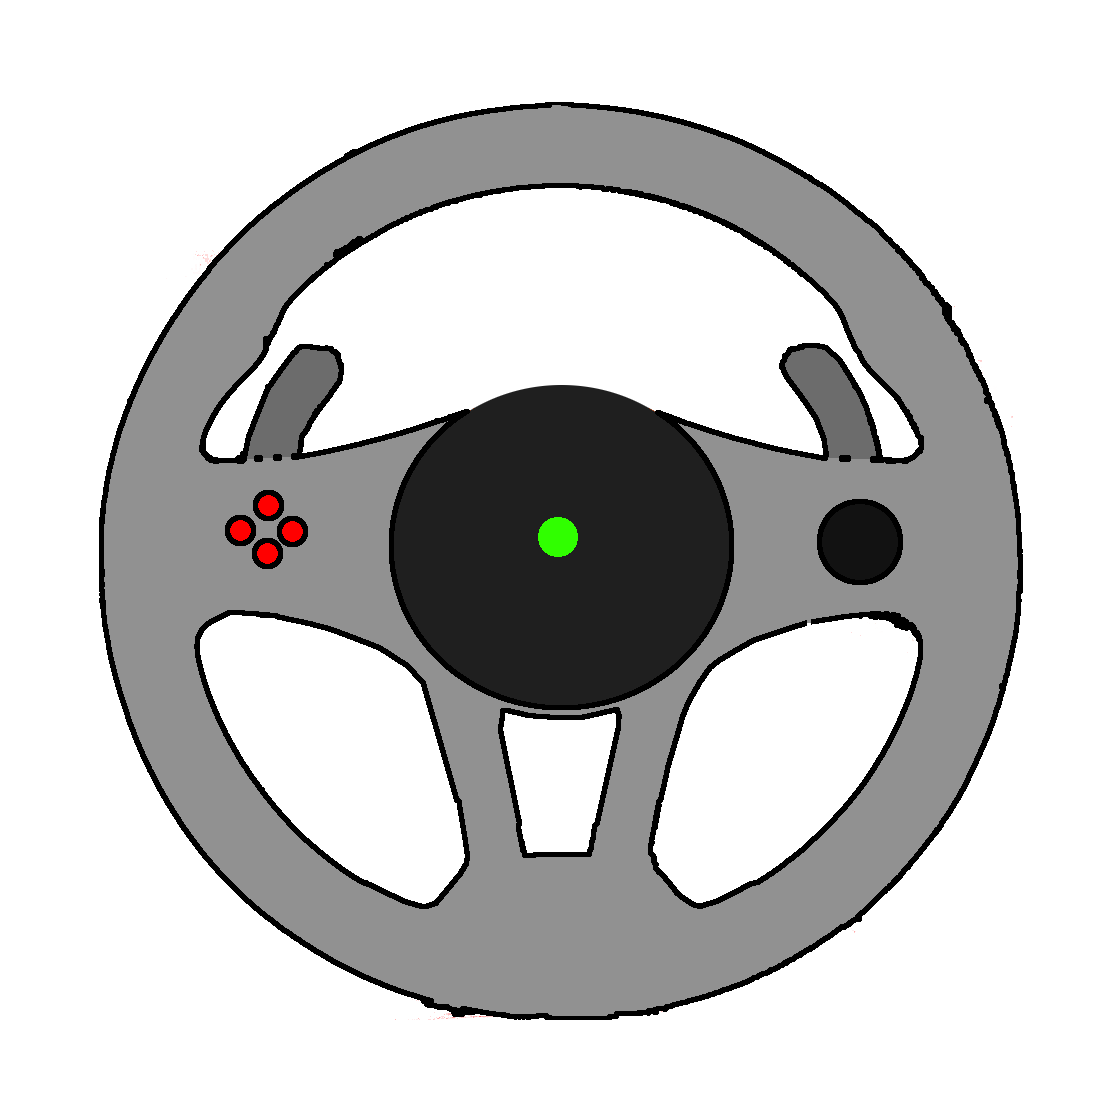
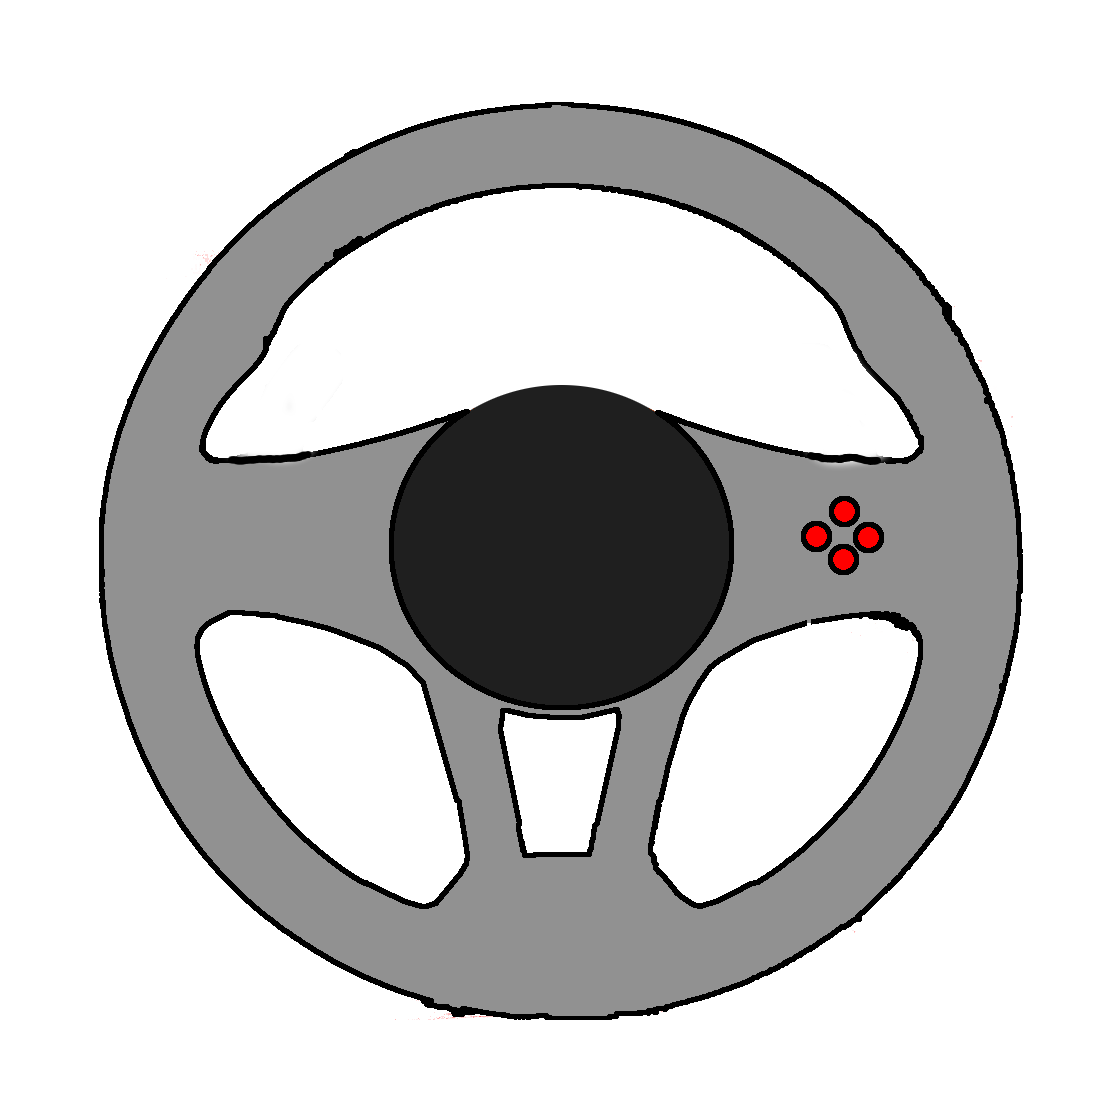
final

Changed region(s): [[0.6875, 0.2812, 0.8125, 0.5312], [0.1875, 0.3125, 0.3125, 0.5312], [0.4688, 0.4688, 0.5312, 0.5]]

diff --git a/main/main.c b/main/main.c
@@ -32,7 +32,6 @@ typedef struct {
 
 QueueHandle_t xQueueInput;
 QueueHandle_t xQueueUART;
-SemaphoreHandle_t xSemaphoreLed;
 
 void btn_callback(uint gpio, uint32_t events) {
     uint32_t pin = gpio;
@@ -160,7 +159,6 @@ int main() {
     // filas e semáforo
     xQueueInput = xQueueCreate(32, sizeof(uint32_t));
     xQueueUART = xQueueCreate(32, sizeof(uart_packet_t));
-    xSemaphoreLed = xSemaphoreCreateBinary();
 
     // tasks
     xTaskCreate(input_task, "InputTask", 1024, NULL, 2, NULL);

diff --git a/README.md b/README.md
@@ -1,7 +1,5 @@
 # Volante para Euro Truck Simulator
 
-![Protótipo do Volante](volante.png)
-
 ## Descrição do Projeto
 
 Este projeto consiste no desenvolvimento de um controle customizado em formato de volante para o jogo **Euro Truck Simulator**.
@@ -14,29 +12,22 @@ Este projeto consiste no desenvolvimento de um controle customizado em formato d
 
 Nosso controle é um volante de caminhão em escala reduzida mas com elementos realistas, incluindo:
 
-- Volante com rotação de 900 graus (2.5 voltas completas)
-- Pedais analógicos (acelerador, freio e embreagem)
-- Botões para funções essenciais como luzes, buzina, freio de mão, etc.
+- Volante com rotação
+- Pedais analógicos (acelerador e freio)
+- Botões para funções essenciais como luzes, ignição e troca de marcha.
 
 ## Inputs e Outputs
 
 ### Inputs (Sensores)
 
 1. **Entradas Analógicas:**
-   - **2x potenciômetros rotativos** para detectar a rotação do volante e a pressão no pedal do acelerador/freio.
+   - **2x potenciômetros rotativos** para detectar a pressão no pedal do acelerador/freio.
+   - **Enconder** para detectar rotação do volante.
 
 2. **Entradas Digitais:**
-   - Botões para troca de marcha
-   - Botão para o freio de mão
+   - 2 Botões para troca de marcha
    - Botão para ligar e desligar o caminhão
-   - Botão de buzina
    - Botão de luzes
-
-### Outputs (Atuadores)
-
-1. **Feedback Visual:**
-   - Display OLED pequeno para informações do jogo (velocidade, marcha atual)
-
 
 ### Outros componentes:
    - Botão de liga/desliga (status do controle)
@@ -44,26 +35,14 @@ Nosso controle é um volante de caminhão em escala reduzida mas com elementos r
 
 ## Protocolo de Comunicação
 
-O volante se comunica com o computador através de **USB** ou **Bluetooth**, utilizando o protocolo UART que envia as informações dos sensores e botões em tempo real. As entradas operam via **interrupções** da GPIO, garantindo baixa latência e resposta rápida.
+O volante se comunica com o computador através de **USB**, utilizando o protocolo UART que envia as informações dos sensores e botões em tempo real. As entradas operam via **interrupções** da GPIO, garantindo baixa latência e resposta rápida.
 
 ## Diagrama de Blocos do Firmware
 ![Diagrama de blocos do Firmware](volante.drawio.png)
 
-
-## Imagens do Projeto
-
 ### Design Proposto
-!!!
+![Protótipo do Volante](volante.png)
 
-### Protótipo Real
-!!!
-
-### Detalhes Internos
-!!!
-
-## Links Úteis
-
-- !!!
 
 
 ---
